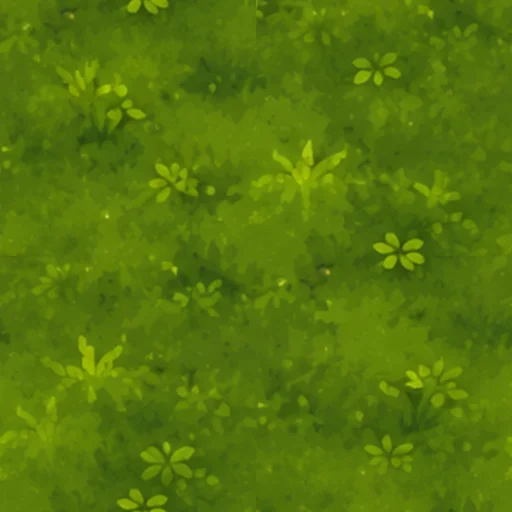
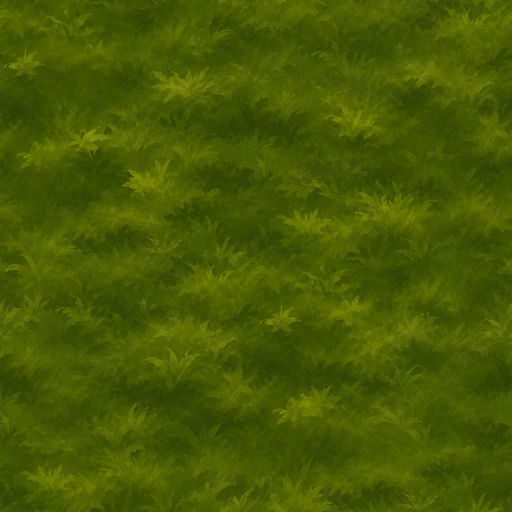
Swamp2: new calm grass/mud/water textures and GPT decor (stones on road, scattered plants)
Claude-Session: https://claude.ai/code/session_013R86rVRDV7uvtfdFLL6VJw

diff --git a/index.html b/index.html
@@ -1246,17 +1246,20 @@ const GPAL={
 GPAL.swamp2=Object.assign({},GPAL.swamp,{tex:1});
 let GP=GPAL.grass;
 /* «Болото 2» (test theme): painted textures and objects supplied by the player, placed by the same swamp code */
-const SW2={grass:new Image(),mud:new Image(),water:new Image(),atlas:new Image(),atlas2:new Image(),pads:new Image(),
+const SW2={grass:new Image(),mud:new Image(),water:new Image(),atlas:new Image(),atlas2:new Image(),pads:new Image(),atlas3:new Image(),
+ /* GPT decor sheets (step work, cut from magenta): rocks, plants, water plants */
+ D:{"g23":[0,0,140,129],"g56":[142,0,140,125],"g28":[284,0,140,123],"g25":[426,0,140,122],"g57":[568,0,124,120],"g27":[694,0,140,111],"g58":[836,0,140,109],"g55":[0,131,116,108],"g54":[118,131,99,107],"g24":[219,131,140,105],"g31":[361,131,140,104],"g63":[503,131,140,102],"g3":[645,131,140,100],"g14":[787,131,140,99],"g26":[0,241,140,99],"g66":[142,241,140,97],"g45":[284,241,140,96],"g29":[426,241,140,96],"g47":[568,241,140,95],"g34":[710,241,140,95],"g15":[852,241,140,94],"g43":[0,342,137,93],"g1":[139,342,140,92],"g44":[281,342,132,92],"g67":[415,342,140,92],"g68":[557,342,140,91],"g59":[699,342,140,90],"g13":[841,342,140,88],"g16":[0,437,140,87],"g35":[142,437,140,87],"g4":[284,437,140,85],"g39":[426,437,140,85],"g46":[568,437,129,84],"g33":[699,437,140,84],"g30":[841,437,140,84],"g36":[0,526,140,83],"g0":[142,526,140,82],"g69":[284,526,140,81],"g64":[426,526,78,79],"g38":[506,526,140,79],"g75":[648,526,140,78],"g42":[790,526,119,77],"g32":[0,611,140,77],"g62":[142,611,86,76],"g2":[230,611,140,74],"g60":[372,611,124,74],"g72":[498,611,140,73],"g73":[640,611,130,72],"g17":[772,611,89,70],"g77":[863,611,118,70],"g70":[0,690,122,66],"g65":[124,690,140,65],"g71":[266,690,138,65],"g40":[406,690,140,65],"g41":[548,690,89,64],"g12":[639,690,140,64],"g61":[781,690,81,64],"g80":[864,690,49,61],"g82":[915,690,77,60],"g85":[0,758,140,59],"g84":[142,758,140,57],"g18":[284,758,72,51],"g21":[358,758,72,51],"g5":[432,758,72,49],"g37":[506,758,140,49],"g53":[648,758,72,46],"g78":[722,758,74,46],"g74":[798,758,140,45],"g6":[940,758,72,44],"g52":[0,819,58,44],"g83":[60,819,103,44],"g8":[165,819,64,40],"g76":[231,819,66,39],"g50":[299,819,46,35],"g51":[347,819,48,35],"g7":[397,819,47,31],"g9":[446,819,41,28],"g49":[489,819,38,26],"g22":[529,819,33,23],"g19":[564,819,34,21],"g11":[600,819,30,19],"g48":[632,819,25,19],"g81":[659,819,29,19],"g10":[690,819,28,18],"g79":[720,819,30,18],"g20":[752,819,26,16]},
+ G:{"peb":["g5","g6","g7","g8","g9","g10","g11","g18","g19","g20","g21","g22","g48","g49","g50","g51","g52","g53"],"mrock":["g41","g42"],"rock":["g0","g1","g2","g3","g4","g12","g13","g14","g15","g16","g17","g43","g44","g45","g46","g47"],"sedge":["g24","g25","g31","g54","g55","g57","g58","g64"],"catt":["g23","g56"],"flow":["g26","g27","g28","g29","g66","g67"],"leaf":["g59","g60","g61","g62","g63","g33"],"bush":["g32","g35","g36","g65","g69","g70","g71","g72"],"fern":["g34","g68","g73"],"log":["g37","g74"],"stump":["g38","g75"],"moss":["g40"],"pad":["g76","g77","g78","g79","g81","g83"],"lfl":["g39","g80","g82"],"lgrp":["g30"],"duck":["g84","g85"]},
  /* TASK-001 v2 (accepted): stone pads 01-04 (102px squares) and low tuft_01; v4: tuft_07 (cattails), tuft_08 (leafy) */
  C:{"pad_01":[0,0,102,102],"pad_02":[104,0,102,102],"pad_03":[208,0,102,102],"pad_04":[312,0,102,102],"tuft_01":[416,0,62,50],"tuft_07":[480,0,64,55],"tuft_08":[546,0,50,36]},
  /* second set (TASK-001 v1, accepted part): single lilies, flowers, duckweed, mushrooms, pebbles, low tufts; tuft_02/04 replaced by muted TASK-001 v3 recolours */
  B:{"lily_single_01":[0,0,46,34],"lily_single_02":[48,0,52,33],"lily_single_03":[102,0,46,33],"lily_single_04":[150,0,52,40],"lily_flower_01":[204,0,60,44],"lily_flower_02":[266,0,53,39],"duckweed_01":[321,0,84,58],"duckweed_02":[407,0,84,58],"duckweed_03":[0,60,84,60],"mushrooms_01":[86,60,52,40],"mushrooms_02":[140,60,52,42],"pebbles_01":[194,60,52,31],"pebbles_02":[248,60,52,37],"pebbles_03":[302,60,52,33],"tuft_02":[356,60,36,56],"tuft_04":[418,60,58,38]},
  A:{"reed1":[0,0,98,85],"reed2":[100,0,87,83],"reed3":[189,0,89,86],"lily1":[280,0,108,49],"lily2":[390,0,107,62],"lily3":[499,0,105,59],"lily4":[606,0,95,70],"log1":[703,0,149,70],"log2":[854,0,116,69],"branch":[0,88,137,67],"root1":[139,88,134,78],"root2":[275,88,191,89],"stump1":[468,88,119,79],"stump2":[589,88,104,81],"stump3":[695,88,110,80],"rock1":[807,88,94,65],"rock2":[903,88,82,51],"rock3":[0,179,75,56],"rock4":[77,179,139,85],"grass1":[218,179,94,75],"grass2":[314,179,87,76],"grass3":[403,179,91,76],"fern":[496,179,99,72],"bush1":[597,179,88,68],"bush2":[687,179,83,70],"bush3":[772,179,80,72],"bush4":[854,179,101,73]}};
-for(const k of ['grass','mud','water','atlas','atlas2','pads']){SW2[k].onload=()=>{if(typeof MAP!=='undefined'&&MAP&&MAP.theme==='swamp2')bgCache=null;};SW2[k].src='sw2_'+k+'.webp';}
-const sw2Ready=()=>['grass','mud','water','atlas','atlas2','pads'].every(k=>SW2[k].complete&&SW2[k].naturalWidth>0);
+for(const k of ['grass','mud','water','atlas','atlas2','pads','atlas3']){SW2[k].onload=()=>{if(typeof MAP!=='undefined'&&MAP&&MAP.theme==='swamp2')bgCache=null;};SW2[k].src='sw2_'+k+'.webp';}
+const sw2Ready=()=>['grass','mud','water','atlas','atlas2','pads','atlas3'].every(k=>SW2[k].complete&&SW2[k].naturalWidth>0);
 function sw2Pat(b,k,sc){const p=b.createPattern(SW2[k],'repeat');try{p.setTransform(new DOMMatrix().scale(sc));}catch(_){}return p;}
 /* one object from the atlas, centred at x,y, w wide (logical px), maybe mirrored, with a soft shadow */
-function spr(b,n,x,y,w,flip){const im=SW2.A[n]?SW2.atlas:SW2.B[n]?SW2.atlas2:SW2.pads,a=SW2.A[n]||SW2.B[n]||SW2.C[n];if(!a)return;const h=w*a[3]/a[2];E(b,x+2,y+h*0.32,w*0.42,h*0.16,'rgba(8,26,6,0.32)');b.save();b.translate(x,y);if(flip)b.scale(-1,1);b.drawImage(im,a[0],a[1],a[2],a[3],-w/2,-h/2,w,h);b.restore();}
+function spr(b,n,x,y,w,flip){const im=SW2.A[n]?SW2.atlas:SW2.B[n]?SW2.atlas2:SW2.C[n]?SW2.pads:SW2.atlas3,a=SW2.A[n]||SW2.B[n]||SW2.C[n]||SW2.D[n];if(!a)return;const h=w*a[3]/a[2];E(b,x+2,y+h*0.32,w*0.42,h*0.16,'rgba(8,26,6,0.32)');b.save();b.translate(x,y);if(flip)b.scale(-1,1);b.drawImage(im,a[0],a[1],a[2],a[3],-w/2,-h/2,w,h);b.restore();}
 const SW2R=(arr)=>arr[Math.floor(rnd()*arr.length)];
 function tree(c,x,y,s){const t=GP.trees.length>1?GP.trees[Math.floor(rnd()*GP.trees.length)]:GP.trees[0];E(c,x+5*s,y+7*s,15*s,9*s,SH);E(c,x,y,15*s,14*s,t[0],2,OL);E(c,x-3*s,y-3*s,11*s,10*s,t[1]);E(c,x-5*s,y-6*s,6*s,5*s,t[2]);E(c,x-6*s,y-8*s,2.5*s,2*s,t[3]);for(let i=0;i<3;i++){c.beginPath();c.arc(x+4*s,y+3*s,4*s+i*3*s,0.2,1.3);c.strokeStyle=t[4];c.lineWidth=1;c.stroke();}}
 function rock(c,x,y,s,moss){E(c,x+4*s,y+5*s,14*s,7*s,SH);P(c,[[x-13*s,y+4*s],[x-11*s,y-7*s],[x-2*s,y-12*s],[x+10*s,y-9*s],[x+14*s,y+1*s],[x+8*s,y+8*s],[x-6*s,y+9*s]],'#8C9196',2,OL);P(c,[[x-11*s,y-7*s],[x-2*s,y-12*s],[x+10*s,y-9*s],[x+3*s,y-3*s],[x-8*s,y-1*s]],'#B5BABE');P(c,[[x+3*s,y-3*s],[x+10*s,y-9*s],[x+14*s,y+1*s],[x+8*s,y+8*s]],'#73787D');if(moss){E(c,x-6*s,y-6*s,4*s,2*s,GP.moss);E(c,x+2*s,y-10*s,3*s,1.6*s,GP.moss);}}
@@ -1383,25 +1386,38 @@ function sw2Water(b,pools){for(const cs of pools)for(const c of cs)if(!c.sh){c.s
  path(7,3);b.fillStyle='rgba(10,30,8,0.3)';b.fill();path(5);b.fillStyle='#3A5A22';b.fill();path(3);b.fillStyle='#4A3A22';b.fill();path(1.5);b.fillStyle='#14302A';b.fill();
  path(0);b.fillStyle=sw2Pat(b,'water',0.4);b.fill();
  /* inner shadow along the bank */path(0);b.save();b.clip();path(3,-3);b.lineWidth=5;b.strokeStyle='rgba(5,20,15,0.35)';b.stroke();b.restore();}
-function sw2Decor(b,x,y,sx,cx,cy,rd){const F=()=>rnd()<0.5,LS=['lily_single_01','lily_single_02','lily_single_03','lily_single_04'];
+function sw2Decor(b,x,y,sx,cx,cy,rd){const GG=k=>SW2R(SW2.G[k]);const F=()=>rnd()<0.5,LS=['lily_single_01','lily_single_02','lily_single_03','lily_single_04'];
  if(inPool(x,y,-4)){/* on the water: duckweed, single leaves, flowers, now and then a big group or reeds */
-  if(sx<0.28)spr(b,SW2R(['duckweed_01','duckweed_02','duckweed_03']),x,y,20+rnd()*10,F());
+  if(sx<0.14)spr(b,SW2R(['duckweed_01','duckweed_02','duckweed_03']),x,y,20+rnd()*10,F());
+  else if(sx<0.28)spr(b,rnd()<0.5?GG('duck'):GG('pad'),x,y,16+rnd()*12,F());
   else if(sx<0.55){spr(b,SW2R(LS),x,y,12+rnd()*6,F());if(rnd()<0.6)spr(b,SW2R(LS),x+(rnd()-0.5)*16,y+(rnd()-0.5)*10,11+rnd()*5,F());}
-  else if(sx<0.65)spr(b,SW2R(['lily_flower_01','lily_flower_02']),x,y,16+rnd()*4,F());
+  else if(sx<0.65)spr(b,rnd()<0.5?SW2R(['lily_flower_01','lily_flower_02']):GG('lfl'),x,y,14+rnd()*6,F());
   else if(sx<0.75)spr(b,SW2R(['lily1','lily2','lily3','lily4']),x,y,24+rnd()*8,F());
   else if(sx<0.88)spr(b,SW2R(['reed1','reed2','reed3']),x,y-6,32+rnd()*8,F());return;}
  if(inPool(x,y,8)){if(sx<0.55)spr(b,SW2R(['reed1','reed2','reed3','grass2']),x,y-6,32+rnd()*10,F());else if(sx<0.8)spr(b,SW2R(['tuft_01','tuft_02','tuft_04','tuft_07','tuft_08']),x,y-3,15+rnd()*5,F());else spr(b,SW2R(['pebbles_01','pebbles_02','pebbles_03']),x,y,13+rnd()*4,F());return;}
- if(rd<60){const k=rnd();if(k<0.3)spr(b,SW2R(['pebbles_01','pebbles_02','pebbles_03']),x,y,12+rnd()*4,F());else if(k<0.6)spr(b,SW2R(['tuft_01','tuft_02','tuft_04','tuft_07','tuft_08']),x,y,14+rnd()*5,F());else if(k<0.72)spr(b,SW2R(['grass1','grass3','fern']),x,y,18+rnd()*6,F());return;}
+ if(rd<60){const k=rnd();if(k<0.3)spr(b,rnd()<0.6?GG('peb'):SW2R(['pebbles_01','pebbles_02','pebbles_03']),x,y,9+rnd()*6,F());else if(k<0.6)spr(b,SW2R(['tuft_01','tuft_02','tuft_04','tuft_07','tuft_08']),x,y,14+rnd()*5,F());else if(k<0.72)spr(b,SW2R(['grass1','grass3','fern']),x,y,18+rnd()*6,F());else if(k<0.86)spr(b,GG(rnd()<0.5?'leaf':'sedge'),x,y,14+rnd()*6,F());return;}
  if(sx<0.2)spr(b,SW2R(['reed1','reed2','reed3','grass2']),x,y-6,34+rnd()*8,F());
  else if(sx<0.27){spr(b,SW2R(['log1','log2']),x,y,46+rnd()*10,F());if(rnd()<0.5)spr(b,SW2R(['mushrooms_01','mushrooms_02']),x+(rnd()-0.5)*30,y+10,13+rnd()*3,F());}
  else if(sx<0.32)spr(b,SW2R(['branch','root1','root2']),x,y,48+rnd()*14,F());
  else if(sx<0.39){spr(b,SW2R(['stump1','stump2','stump3']),x,y-4,32+rnd()*6,F());if(rnd()<0.4)spr(b,SW2R(['mushrooms_01','mushrooms_02']),x+12,y+10,12+rnd()*3,F());}
- else if(sx<0.47)spr(b,SW2R(['rock1','rock2','rock3','rock4']),x,y,28+rnd()*12,F());
- else if(sx<0.58)spr(b,SW2R(['bush1','bush2','bush3','bush4']),x,y-3,30+rnd()*7,F());
+ else if(sx<0.47)spr(b,rnd()<0.5?SW2R(['rock1','rock2','rock3','rock4']):GG('rock'),x,y,26+rnd()*12,F());
+ else if(sx<0.58)spr(b,rnd()<0.5?SW2R(['bush1','bush2','bush3','bush4']):GG(rnd()<0.6?'bush':'fern'),x,y-3,26+rnd()*8,F());
  else if(sx<0.62)spr(b,SW2R(['mushrooms_01','mushrooms_02']),x,y,13+rnd()*4,F());
  else if(sx<0.70)spr(b,SW2R(['pebbles_01','pebbles_02','pebbles_03']),x,y,14+rnd()*4,F());
- else if(sx<0.84)spr(b,SW2R(['grass1','grass3','fern']),x,y-3,22+rnd()*7,F());
+ else if(sx<0.77)spr(b,SW2R(['grass1','grass3','fern']),x,y-3,22+rnd()*7,F());
+ else if(sx<0.84)spr(b,GG(rnd()<0.4?'flow':rnd()<0.5?'catt':'sedge'),x,y-4,20+rnd()*8,F());
  else{spr(b,SW2R(['tuft_01','tuft_02','tuft_04','tuft_07','tuft_08']),x,y,15+rnd()*5,F());if(rnd()<0.5)spr(b,SW2R(['tuft_01','tuft_02','tuft_04','tuft_07','tuft_08']),x+10,y+6,13+rnd()*4,F());}}
+
+/* swamp2: second, finer layer — loose small plants over the grass and stones on the road, all at random spots so nothing repeats */
+function sw2Scatter(b,ROADPT){const GG=k=>SW2R(SW2.G[k]),F=()=>rnd()<0.5;
+ if(ROADPT)for(let i=0;i<ROADPT.n;i++){const p=ROADPT.at(rnd()<0.75?13:16);if(!p)continue;const big=rnd()<0.15;spr(b,big?GG('mrock'):GG('peb'),p[0],p[1],big?11+rnd()*4:6+rnd()*6,F());}
+ for(let i=0;i<230;i++){const x=10+rnd()*(VW-20),y=10+rnd()*(VH-20),c=Math.floor(x/CS),r=Math.floor(y/CS);if(kind[c+','+r]!=='grass')continue;
+  if(SLOTS.some(sl=>Math.abs(sl.x-x)<SLOT_HALF+7&&Math.abs(sl.y-y)<SLOT_HALF+9))continue;
+  if(FIELDS.some(f=>x>f.bx0-8&&x<f.bx1+8&&y>f.by0-8&&y<f.by1+8))continue;
+  if(roadDist(x,y)<29||polyDist(x,y,TRACK_PL)<20)continue;
+  if(inPool(x,y,-5)){if(rnd()<0.7)spr(b,GG(rnd()<0.5?'pad':'duck'),x,y,9+rnd()*10,F());continue;}
+  if(inPool(x,y,3))continue;
+  const k=rnd();spr(b,GG(k<0.38?'leaf':k<0.72?'sedge':k<0.8?'flow':k<0.9?'bush':'moss'),x,y,10+rnd()*8,F());}}
 function paintBg(){const bg=document.createElement('canvas');bg.width=Math.round(VW*DPR);bg.height=Math.round(VH*DPR);const b=bg.getContext('2d');b.scale(DPR,DPR);seed=11;
  if(MAP.theme==='lava')return paintLava(bg,b);const snow=MAP.theme==='snow',sand=MAP.theme==='sand',BY=BRIDGE_Y;GP=GPAL[MAP.theme]||GPAL.grass;
  if(sand){b.fillStyle='#E2C084';b.fillRect(0,0,VW,VH);
@@ -1457,7 +1473,7 @@ function paintBg(){const bg=document.createElement('canvas');bg.width=Math.round
   const pickSeg=()=>{const u=rnd()*segL;let lo=0,hi=SEG.length-1;while(lo<hi){const m=(lo+hi)>>1;if(SEG[m][2]<u)lo=m+1;else hi=m;}return SEG[lo];};
   const onRoad=(m)=>{for(let k=0;k<40;k++){const sg=pickSeg(),a=sg[0],q=sg[1],t=rnd(),o=(rnd()-0.5)*2*m;const L=Math.hypot(q[0]-a[0],q[1]-a[1])||1,ux=(q[0]-a[0])/L,uy=(q[1]-a[1])/L;const x=a[0]+(q[0]-a[0])*t-uy*o,y=a[1]+(q[1]-a[1])*t+ux*o;if(roadDist(x,y)<=m)return[x,y];}return null;};
   const tot=ROADS.reduce((n,rd)=>n+rd.slice(1).reduce((m,p,i)=>m+Math.hypot(p[0]-rd[i][0],p[1]-rd[i][1]),0),0)/100;
-  const TX=GP.tex&&sw2Ready();b.save();
+  const TX=GP.tex&&sw2Ready();b.save();if(TX)SW.roadPt={n:Math.round(tot*2.4),at:onRoad};
   if(!TX){
   /* soft light and dark mottling */
   for(let i=0;i<tot*22;i++){const p=onRoad(14);if(!p)continue;const r=4+rnd()*9;softBlob(b,p[0],p[1],r,r*(0.5+rnd()*0.4),rnd()<0.5?'60,36,16':'176,128,80',0.22,0.35);}
@@ -1493,6 +1509,7 @@ function paintBg(){const bg=document.createElement('canvas');bg.width=Math.round
    else if(inPool(jx,jy,8)){if(sx<0.75)reeds(b,jx,jy,0.8+rnd()*0.35);else tuft(b,jx,jy,1);}
    else if(sx<0.3)reeds(b,jx,jy,0.8+rnd()*0.3);else if(sx<0.4)swLog(b,jx,jy,0.8+rnd()*0.3);else if(sx<0.48)swStump(b,jx,jy,0.8+rnd()*0.3);else if(sx<0.58)rock(b,jx,jy,0.6+rnd()*0.25,true);else if(sx<0.68)bush(b,jx,jy,0.9);else if(sx<0.74)tree(b,jx,jy,0.85+rnd()*0.2);else{tuft(b,jx,jy,1);tuft(b,jx+10,jy+6,0.8);}}
   else{if(sx<0.7)tree(b,cx+(rnd()-0.5)*8,cy+(rnd()-0.5)*6,0.85+rnd()*0.25);else if(sx<0.85)rock(b,cx,cy,0.8,true);else{bush(b,x+12,y+14,0.9);flowers(b,x+28,y+28);}}}
+ if(GP.sw&&GP.tex&&sw2Ready())sw2Scatter(b,SW.roadPt);SW.roadPt=null;
  if(sand&&MAP.pond){const o=MAP.pond;for(const [a,d,sc] of [[-0.6,1.15,1],[0.5,1.2,0.9],[2.3,1.15,0.95],[3.6,1.2,1.05]])palm(b,o.x+Math.cos(a)*o.rx*d,o.y+Math.sin(a)*o.ry*d+4,sc);}
  return bg;}
 
@@ -2703,9 +2720,9 @@ window.__dbg={get W(){return W},simStep,doCmd,botThink,packSnap,onSnap,setCode:c
 requestAnimationFrame(frame);
 </script>
 
-<div id="appVer">v2026.11.08-1355</div>
+<div id="appVer">v2026.11.08-1437</div>
 <script>
-window.APP_VERSION='2026.11.08-1355';
+window.APP_VERSION='2026.11.08-1437';
 /* the version label only on the lobby screen */
 setInterval(()=>{const l=document.getElementById('lobby'),v=document.getElementById('appVer');if(l&&v)v.style.display=l.hidden?'none':'';},500);
 if('serviceWorker' in navigator){let reloaded=false;

diff --git a/sw.js b/sw.js
@@ -1,6 +1,6 @@
-/* «Две базы» offline cache, version 2026.11.08-1355. A new version of this file makes phones fetch the new game;
+/* «Две базы» offline cache, version 2026.11.08-1437. A new version of this file makes phones fetch the new game;
    files whose content didn't change are copied from the old cache instead of downloaded again. */
-const V='dvebazy-2026.11.08-1355',H={"base_blue.webp": "3fa30d2184", "base_red.webp": "7dbdedfcd1", "crater.webp": "f8f526da4a", "crystal.webp": "3a4d69ffd7", "crystal_empty.webp": "e0bfd176b7", "desert.mp3": "4e820be7a4", "field_empty.webp": "1a89de323f", "field_full.webp": "5ce65390f6", "forest.mp3": "4d73b83bec", "hq_blue.webp": "9fd8e7e807", "hq_red.webp": "971d8873b5", "hv_e_blue.webp": "0fb54e58f2", "hv_e_red.webp": "dadb0cb8e0", "hv_f_blue.webp": "0eaca5d65e", "hv_f_red.webp": "1a6f973922", "intro.mp3": "d06e8482e9", "lost.mp3": "640926f4fa", "nuke.webp": "3bd289d94c", "ref_blue.webp": "55d23168b2", "ref_red.webp": "3c357584ff", "rocket.webp": "071c1a603f", "titan.mp3": "74a7fba796", "titan_hull_blue.webp": "b95fc02d02", "titan_hull_red.webp": "bc3479a55e", "titan_tur_blue.webp": "3a694cdb51", "titan_tur_red.webp": "4c836f3f95", "tw_can_blue.webp": "39c2cdb5df", "tw_can_red.webp": "11768d7b6d", "tw_mg_blue.webp": "f2a7462850", "tw_mg_red.webp": "b13edf318a", "tw_rkt_blue.webp": "890841b140", "tw_rkt_red.webp": "1cd20dd65c", "tw_tes_blue.webp": "f8dbac1346", "tw_tes_red.webp": "35dace5877", "victory.mp3": "86da21c965", "wave.webp": "02e3191a09", "winter.mp3": "c049c90e71", "voice_balist1.mp3": "a809bffd15", "voice_batk1.mp3": "bc1cce2b93", "voice_bomb1.mp3": "3e85b9b9dc", "voice_first1.mp3": "5d89f62894", "voice_first2.mp3": "6f591c10d3", "voice_first3.mp3": "de270f2917", "voice_first4.mp3": "52d929dd20", "voice_first5.mp3": "475b1aa197", "voice_first6.mp3": "d2ce90c984", "voice_first7.mp3": "222510fe73", "voice_hvdie1.mp3": "c1c6b9d714", "voice_loh1.mp3": "21e001d1e4", "voice_loh10.mp3": "41e66ff026", "voice_loh2.mp3": "e7da3dd047", "voice_loh3.mp3": "5cc145f5da", "voice_loh4.mp3": "58b7b9dbe7", "voice_loh5.mp3": "1426e425ce", "voice_loh6.mp3": "2053d0fb8a", "voice_loh7.mp3": "b546dc0fcb", "voice_loh8.mp3": "373d27d207", "voice_loh9.mp3": "ee76b7cbbf", "voice_lose1.mp3": "0965212c4d", "voice_lose2.mp3": "0272edf688", "voice_lose3.mp3": "fcb16aa0a5", "voice_lose4.mp3": "f4663fb4e3", "voice_lose5.mp3": "606ac4c1cf", "voice_lose6.mp3": "83a1fe1747", "voice_mazor1.mp3": "0a2f8341b5", "voice_mazor2.mp3": "2d0ef74267", "voice_mine2.mp3": "5ebf9d3ec6", "voice_mset1.mp3": "a35afbeb82", "voice_mvz1.mp3": "77e6ee09e0", "voice_mvz2.mp3": "fb090a12ca", "voice_nkb1.mp3": "52d38c9324", "voice_nkb2.mp3": "01c40b5760", "voice_nkb3.mp3": "39fe27bdf7", "voice_nkb4.mp3": "64aef97f88", "voice_nkb5.mp3": "4d31a020df", "voice_nkb6.mp3": "789a890588", "voice_nuke2.mp3": "8ca89b5589", "voice_ogon1.mp3": "c9d67acb12", "voice_orud1.mp3": "3026d1e2ee", "voice_rzap1.mp3": "2e0d131a35", "voice_vrag1.mp3": "028cb3b269", "voice_vrag2.mp3": "2e10b723e9", "voice_vrag3.mp3": "6079f5e810", "voice_vrag4.mp3": "8f7fa0ef37", "voice_vrag5.mp3": "e94b070c67", "voice_vrag6.mp3": "cb9915cce8", "voice_vrag7.mp3": "7ed2c5a974", "voice_vrag8.mp3": "48edfe60b2", "voice_vrag9.mp3": "8b0f4d86ee", "voice_win1.mp3": "f3f0a603b5", "voice_win2.mp3": "12950c5326", "voice_win3.mp3": "62d5e009ec", "voice_win4.mp3": "c6f262900b", "voice_win5.mp3": "63d2a5f9c8", "voice_bomb2.mp3": "2a7dccab6b", "voice_bomb3.mp3": "9939c42554", "voice_bomb4.mp3": "ae8e689c51", "voice_bomb5.mp3": "a8e38dbf99", "voice_bomb6.mp3": "5ad7691213", "voice_bomb7.mp3": "68265021c3", "voice_mset2.mp3": "e2e92e7433", "voice_mset3.mp3": "a9811a1536", "voice_mset4.mp3": "8173956a14", "voice_tout1.mp3": "e36d93eff4", "voice_tout2.mp3": "32e7428350", "voice_tout3.mp3": "9fca62bcdf", "voice_tout4.mp3": "3e314749bc", "voice_tout5.mp3": "5fcc940e4d", "voice_tout6.mp3": "fac430fb0f", "voice_tout7.mp3": "979fea3bea", "voice_tout8.mp3": "01a95c5d7b", "voice_tout9.mp3": "6bfcb1b4f9", "voice_etout1.mp3": "43c1b6aaf3", "voice_etout2.mp3": "bd5d728dc7", "voice_etout3.mp3": "9fd5dfc497", "voice_etout4.mp3": "781294a546", "voice_etout5.mp3": "d430e427bc", "voice_orud2.mp3": "aa9e1b81be", "voice_orud3.mp3": "705171a146", "voice_orud4.mp3": "238aca5997", "voice_orud5.mp3": "339952603c", "voice_tlow1.mp3": "785ec7eec0", "voice_tlow2.mp3": "96d601ac89", "voice_tlow3.mp3": "74a22eaaeb", "voice_tlow4.mp3": "fe8e1de87d", "voice_tlow5.mp3": "3cc923bbde", "voice_tlow6.mp3": "4c544afc32", "voice_tlow7.mp3": "32148d5608", "voice_tlow8.mp3": "aa26e23409", "voice_tlow9.mp3": "3085b4d856", "sw2_grass.webp": "e9c2de9e29", "sw2_mud.webp": "e61855352f", "sw2_water.webp": "98d60ba496", "sw2_atlas.webp": "427607d22b", "sw2_atlas2.webp": "8e1c286c2d", "sw2_pads.webp": "1d18fc9a44", "manifest.webmanifest": "d76adf5df4", "icon-192.png": "3f01f503e0", "icon-512.png": "ea3305bba6", "icon-180.png": "5713f46e1f"};
+const V='dvebazy-2026.11.08-1437',H={"base_blue.webp": "3fa30d2184", "base_red.webp": "7dbdedfcd1", "crater.webp": "f8f526da4a", "crystal.webp": "3a4d69ffd7", "crystal_empty.webp": "e0bfd176b7", "desert.mp3": "4e820be7a4", "field_empty.webp": "1a89de323f", "field_full.webp": "5ce65390f6", "forest.mp3": "4d73b83bec", "hq_blue.webp": "9fd8e7e807", "hq_red.webp": "971d8873b5", "hv_e_blue.webp": "0fb54e58f2", "hv_e_red.webp": "dadb0cb8e0", "hv_f_blue.webp": "0eaca5d65e", "hv_f_red.webp": "1a6f973922", "intro.mp3": "d06e8482e9", "lost.mp3": "640926f4fa", "nuke.webp": "3bd289d94c", "ref_blue.webp": "55d23168b2", "ref_red.webp": "3c357584ff", "rocket.webp": "071c1a603f", "titan.mp3": "74a7fba796", "titan_hull_blue.webp": "b95fc02d02", "titan_hull_red.webp": "bc3479a55e", "titan_tur_blue.webp": "3a694cdb51", "titan_tur_red.webp": "4c836f3f95", "tw_can_blue.webp": "39c2cdb5df", "tw_can_red.webp": "11768d7b6d", "tw_mg_blue.webp": "f2a7462850", "tw_mg_red.webp": "b13edf318a", "tw_rkt_blue.webp": "890841b140", "tw_rkt_red.webp": "1cd20dd65c", "tw_tes_blue.webp": "f8dbac1346", "tw_tes_red.webp": "35dace5877", "victory.mp3": "86da21c965", "wave.webp": "02e3191a09", "winter.mp3": "c049c90e71", "voice_balist1.mp3": "a809bffd15", "voice_batk1.mp3": "bc1cce2b93", "voice_bomb1.mp3": "3e85b9b9dc", "voice_first1.mp3": "5d89f62894", "voice_first2.mp3": "6f591c10d3", "voice_first3.mp3": "de270f2917", "voice_first4.mp3": "52d929dd20", "voice_first5.mp3": "475b1aa197", "voice_first6.mp3": "d2ce90c984", "voice_first7.mp3": "222510fe73", "voice_hvdie1.mp3": "c1c6b9d714", "voice_loh1.mp3": "21e001d1e4", "voice_loh10.mp3": "41e66ff026", "voice_loh2.mp3": "e7da3dd047", "voice_loh3.mp3": "5cc145f5da", "voice_loh4.mp3": "58b7b9dbe7", "voice_loh5.mp3": "1426e425ce", "voice_loh6.mp3": "2053d0fb8a", "voice_loh7.mp3": "b546dc0fcb", "voice_loh8.mp3": "373d27d207", "voice_loh9.mp3": "ee76b7cbbf", "voice_lose1.mp3": "0965212c4d", "voice_lose2.mp3": "0272edf688", "voice_lose3.mp3": "fcb16aa0a5", "voice_lose4.mp3": "f4663fb4e3", "voice_lose5.mp3": "606ac4c1cf", "voice_lose6.mp3": "83a1fe1747", "voice_mazor1.mp3": "0a2f8341b5", "voice_mazor2.mp3": "2d0ef74267", "voice_mine2.mp3": "5ebf9d3ec6", "voice_mset1.mp3": "a35afbeb82", "voice_mvz1.mp3": "77e6ee09e0", "voice_mvz2.mp3": "fb090a12ca", "voice_nkb1.mp3": "52d38c9324", "voice_nkb2.mp3": "01c40b5760", "voice_nkb3.mp3": "39fe27bdf7", "voice_nkb4.mp3": "64aef97f88", "voice_nkb5.mp3": "4d31a020df", "voice_nkb6.mp3": "789a890588", "voice_nuke2.mp3": "8ca89b5589", "voice_ogon1.mp3": "c9d67acb12", "voice_orud1.mp3": "3026d1e2ee", "voice_rzap1.mp3": "2e0d131a35", "voice_vrag1.mp3": "028cb3b269", "voice_vrag2.mp3": "2e10b723e9", "voice_vrag3.mp3": "6079f5e810", "voice_vrag4.mp3": "8f7fa0ef37", "voice_vrag5.mp3": "e94b070c67", "voice_vrag6.mp3": "cb9915cce8", "voice_vrag7.mp3": "7ed2c5a974", "voice_vrag8.mp3": "48edfe60b2", "voice_vrag9.mp3": "8b0f4d86ee", "voice_win1.mp3": "f3f0a603b5", "voice_win2.mp3": "12950c5326", "voice_win3.mp3": "62d5e009ec", "voice_win4.mp3": "c6f262900b", "voice_win5.mp3": "63d2a5f9c8", "voice_bomb2.mp3": "2a7dccab6b", "voice_bomb3.mp3": "9939c42554", "voice_bomb4.mp3": "ae8e689c51", "voice_bomb5.mp3": "a8e38dbf99", "voice_bomb6.mp3": "5ad7691213", "voice_bomb7.mp3": "68265021c3", "voice_mset2.mp3": "e2e92e7433", "voice_mset3.mp3": "a9811a1536", "voice_mset4.mp3": "8173956a14", "voice_tout1.mp3": "e36d93eff4", "voice_tout2.mp3": "32e7428350", "voice_tout3.mp3": "9fca62bcdf", "voice_tout4.mp3": "3e314749bc", "voice_tout5.mp3": "5fcc940e4d", "voice_tout6.mp3": "fac430fb0f", "voice_tout7.mp3": "979fea3bea", "voice_tout8.mp3": "01a95c5d7b", "voice_tout9.mp3": "6bfcb1b4f9", "voice_etout1.mp3": "43c1b6aaf3", "voice_etout2.mp3": "bd5d728dc7", "voice_etout3.mp3": "9fd5dfc497", "voice_etout4.mp3": "781294a546", "voice_etout5.mp3": "d430e427bc", "voice_orud2.mp3": "aa9e1b81be", "voice_orud3.mp3": "705171a146", "voice_orud4.mp3": "238aca5997", "voice_orud5.mp3": "339952603c", "voice_tlow1.mp3": "785ec7eec0", "voice_tlow2.mp3": "96d601ac89", "voice_tlow3.mp3": "74a22eaaeb", "voice_tlow4.mp3": "fe8e1de87d", "voice_tlow5.mp3": "3cc923bbde", "voice_tlow6.mp3": "4c544afc32", "voice_tlow7.mp3": "32148d5608", "voice_tlow8.mp3": "aa26e23409", "voice_tlow9.mp3": "3085b4d856", "sw2_grass.webp": "ae9bb5b54f", "sw2_mud.webp": "be0d1aced4", "sw2_water.webp": "e2eb74a170", "sw2_atlas.webp": "427607d22b", "sw2_atlas2.webp": "8e1c286c2d", "sw2_pads.webp": "1d18fc9a44", "sw2_atlas3.webp": "28ae61a313", "manifest.webmanifest": "d76adf5df4", "icon-192.png": "3f01f503e0", "icon-512.png": "ea3305bba6", "icon-180.png": "5713f46e1f"};
 self.addEventListener('install',e=>{self.skipWaiting();e.waitUntil((async()=>{const c=await caches.open(V);let oldH={},old=null;
  for(const k of await caches.keys()){if(k===V)continue;const o=await caches.open(k);const r=await o.match('__hashes');if(r){try{oldH=await r.json();old=o;}catch(_){}}}
  await Promise.all(Object.keys(H).map(async f=>{try{if(old&&oldH[f]===H[f]){const r=await old.match(f);if(r){await c.put(f,r);return;}}await c.add(new Request(f,{cache:'reload'}));}catch(_){}}));
